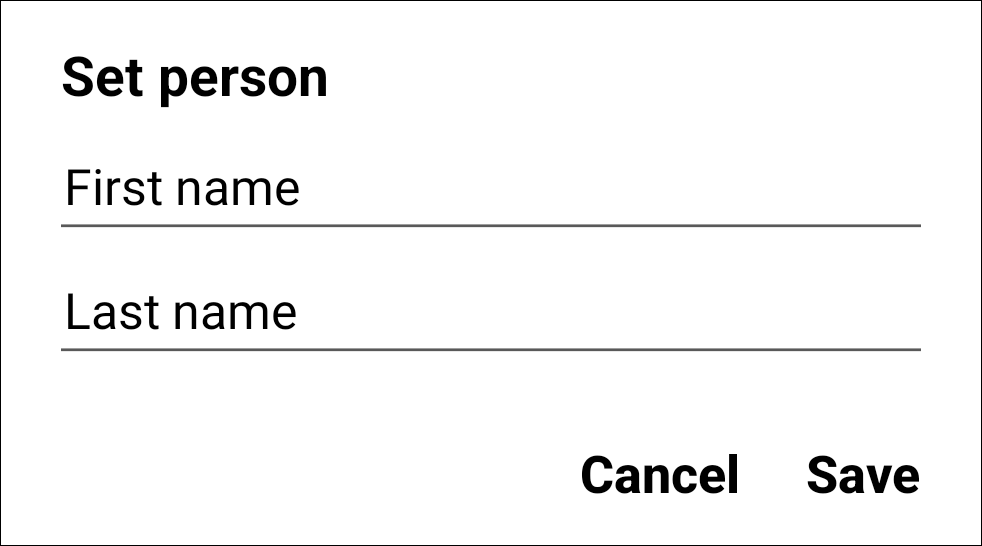
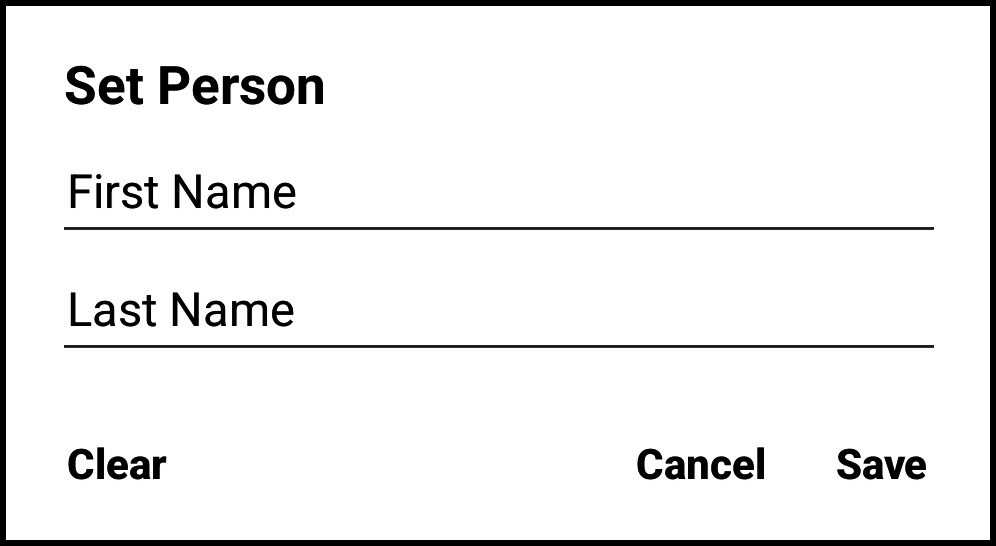
deploy: f9b57ce267b7e63a0e97564fd2fd7d049b7c3f2f

diff --git a/settings/settings-profile.md b/settings/settings-profile.md
@@ -22,26 +22,13 @@ included in the database
   <figcaption><i>Set person dialog</i></figcaption> 
 </figure>
 
-#### <img ref="reset" style="vertical-align: middle;" src="_static/icons/settings/profile/delete.png" width="20px"> Reset Profile
+#### <img ref="verify" style="vertical-align: middle;" src="_static/icons/settings/profile/account-clock-outline.png" width="20px"> Verification Interval
 
-Unsets the first and last name of the person operating Field Book.
-
-#### <img ref="verify" style="vertical-align: middle;" src="_static/icons/settings/profile/account-clock-outline.png" width="20px"> Require Person
-
-If enabled, prevents using Field Book unless Person is set. And adds a <img ref="interval" style="vertical-align: middle;" src="_static/icons/settings/profile/hours-24.png" width="20px">
-time between verification setting, which can be set to one of three
-intervals.
+Determines <img ref="interval" style="vertical-align: middle;" src="_static/icons/settings/profile/hours-24.png" width="20px">
+how frequently Field Book will ask for confirmation that the correct name is set for the person operating the app.
 
 <figure align="center" class="image">
-  <img src="_static/images/settings/profile/settings_profile_verification_times.png" width="325px"> 
+  <img src="_static/images/settings/profile/settings_profile_verification_interval.png" width="325px"> 
   <figcaption><i>Choice of profile verification
 intervals</i></figcaption> 
 </figure>
-
-Crashlytics
------------
-
-#### <img ref="id" style="vertical-align: middle;" src="_static/icons/settings/profile/card-account-details-outline.png" width="20px"> Unique ID
-
-Creates a unique ID for use in generating more specific crash logs. This
-helps the development team when troubleshooting and improving Field Book

diff --git a/settings/settings-system.md b/settings/settings-system.md
@@ -32,3 +32,11 @@ app doesn't ask each time.
   <img src="_static/images/settings/system/settings_system_export_sources.png" width="325px"> 
   <figcaption><i>Default export options</i></figcaption> 
 </figure>
+
+Crashlytics
+-----------
+
+#### <img ref="id" style="vertical-align: middle;" src="_static/icons/settings/profile/card-account-details-outline.png" width="20px"> Unique ID
+
+Creates a unique ID for use in generating more specific crash logs. This
+helps the development team when troubleshooting and improving Field Book
